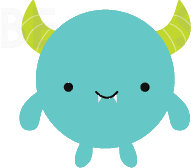
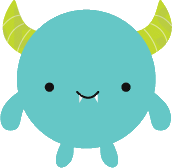
images added to html

diff --git a/MturkJSExperiments/generics.html b/MturkJSExperiments/generics.html
@@ -45,13 +45,20 @@
 
 <!-- Information for Trial -->
 <div class="slide" id="trialInfo" style="display: none;">
-  <p>Hi. Here's some information for this trial in the experiment.</p>
+  <p>Feps are a kind of monster that live on this planet.</p>
+  <p>You go out into the wild to observe some feps, and these 
+  are the feps that you see:<p>
+  <span id="images"/>
+  <p>You have heard Scientist Sally mention feps before, when 
+  you first came to the planet. You remember that she said, 
+  "Feps have horns".<p>
   <input value="Continue" type="button" onclick="trialQ()">
 </div>
 
 <!-- Question for Trial -->
 <div class="slide" id="trialQ" style="display: none;">
-  <p>Hi. Here's a question.</p>
+  <p>Wugs are another kind of monster that live on this planet. 
+  What proportion of wugs do you think have horns?</p>
   <form id="propform">
     Answer: <input type="text" name="prop"><br>
     <input value="Continue" type="button" onclick="trialSubmit()">

diff --git a/MturkJSExperiments/generics_files/generics.js b/MturkJSExperiments/generics_files/generics.js
@@ -1,9 +1,16 @@
 qnum = 0;
-qtotal = 3;
+qtotal = 1;
 
 function instructions() {showSlide("instructions");}
 
 function trialInfo() {
+  examples = ["horns1", "nohorns2", "horns3"];
+  for (i=0; i<examples.length; i++) {
+    var img = document.createElement("img");
+    img.src = "generics_files/" + examples[i] + ".png";
+    var imagesSpan = document.getElementById("images");
+    imagesSpan.appendChild(img);
+  }
   showSlide("trialInfo");
 }
 
